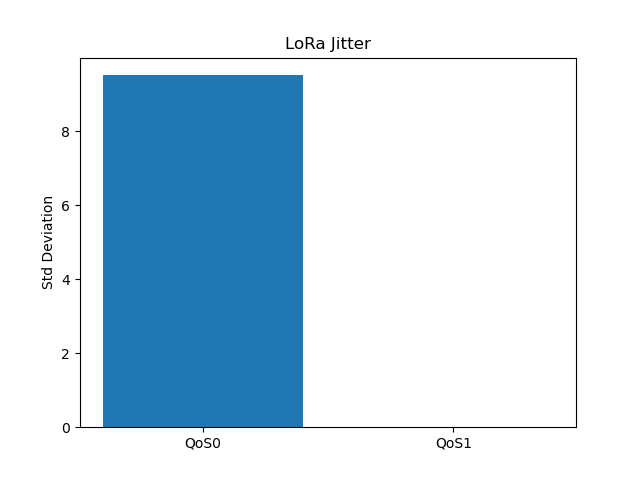
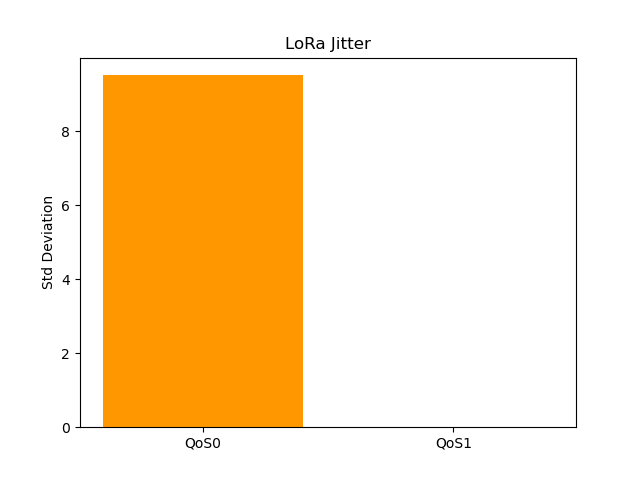
add perf comparison

Changed region(s): [[0.1562, 0.1562, 0.5, 0.9062]]

diff --git a/performance/perf_comparison.py b/performance/perf_comparison.py
@@ -1,0 +1,125 @@
+import pandas as pd
+import matplotlib.pyplot as plt
+import glob
+
+# ---------- load pico data ----------
+pico_files = sorted(glob.glob("pico_qos*.csv"))
+pico_results = {}
+
+for f in pico_files:
+    label = f.split("_")[1].upper()
+    data = pd.read_csv(f)
+    timestamps = data["timestamp"]
+    duration = timestamps.iloc[-1] - timestamps.iloc[0]
+    throughput = len(timestamps) / duration
+    intervals = timestamps.diff().dropna()
+    avg_interval = intervals.mean()
+    jitter = intervals.std()
+
+    # FIXED: count actual gaps
+    seq = data["payload"].str.split().str[-1].astype(int).reset_index(drop=True).sort_values()
+    gaps = 0
+    for i in range(1, len(seq)):
+        gap = seq.iloc[i] - seq.iloc[i-1] - 1
+        if gap > 0:
+            gaps += gap
+    expected = seq.iloc[-1] - seq.iloc[0] + 1
+    loss = max(0, gaps / expected)
+
+    pico_results[label] = {
+        "throughput": throughput,
+        "latency": avg_interval,
+        "jitter": jitter,
+        "loss": loss
+    }
+
+# ---------- load lora data ----------
+lora_files = sorted(glob.glob("lora_test*.csv"))
+lora_data = pd.read_csv(lora_files[-1])
+
+lora_qos0 = lora_data[lora_data["topic"] == "sensors/arduino/data"].sort_values("timestamp")
+lora_qos1 = lora_data[lora_data["topic"] == "sensors/data"].sort_values("timestamp")
+
+lora_results = {}
+
+for label, df in [("QOS0", lora_qos0), ("QOS1", lora_qos1)]:
+    if len(df) < 2:
+        continue
+    timestamps = df["timestamp"]
+    duration = timestamps.iloc[-1] - timestamps.iloc[0]
+    throughput = len(timestamps) / duration
+    intervals = timestamps.diff().dropna()
+    avg_interval = intervals.mean()
+    jitter = intervals.std()
+
+    # FIXED: count actual gaps
+    seq = df["payload"].str.split().str[-1].astype(int).reset_index(drop=True).sort_values()
+    gaps = 0
+    for i in range(1, len(seq)):
+        gap = seq.iloc[i] - seq.iloc[i-1] - 1
+        if gap > 0:
+            gaps += gap
+    expected = seq.iloc[-1] - seq.iloc[0] + 1
+    loss = max(0, gaps / expected)
+
+    lora_results[label] = {
+        "throughput": throughput,
+        "latency": avg_interval,
+        "jitter": jitter,
+        "loss": loss
+    }
+
+# ---------- print summary ----------
+print("\n===== WIFI vs LORA SINGLE HOP COMPARISON =====\n")
+print(f"{'Metric':<20} {'WiFi QoS0':>12} {'WiFi QoS1':>12} {'WiFi QoS2':>12} {'LoRa QoS0':>12} {'LoRa QoS1':>12}")
+print("-" * 72)
+
+metrics = [
+    ("Throughput(msg/s)", "throughput", "{:.4f}"),
+    ("Avg Interval(s)",   "latency",    "{:.4f}"),
+    ("Jitter(s)",         "jitter",     "{:.4f}"),
+    ("Packet Loss",       "loss",       "{:.4f}"),
+]
+
+for name, key, fmt in metrics:
+    wifi0 = fmt.format(pico_results.get("QOS0", {}).get(key, 0))
+    wifi1 = fmt.format(pico_results.get("QOS1", {}).get(key, 0))
+    wifi2 = fmt.format(pico_results.get("QOS2", {}).get(key, 0))
+    lora0 = fmt.format(lora_results.get("QOS0", {}).get(key, 0))
+    lora1 = fmt.format(lora_results.get("QOS1", {}).get(key, 0))
+    print(f"{name:<20} {wifi0:>12} {wifi1:>12} {wifi2:>12} {lora0:>12} {lora1:>12}")
+
+# ---------- comparison charts ----------
+fig, axes = plt.subplots(2, 2, figsize=(12, 8))
+fig.suptitle("WiFi (Pico) vs LoRa Single-Hop (Arduino) — Transport Comparison", fontsize=13)
+
+wifi_labels = list(pico_results.keys())
+lora_labels = list(lora_results.keys())
+wifi_color = "#2196F3"
+lora_color = "#FF9800"
+
+def plot_comparison(ax, title, ylabel, key):
+    x = range(len(wifi_labels))
+    lora_x = range(len(lora_labels))
+    ax.bar([i - 0.2 for i in x],
+           [pico_results[k][key] for k in wifi_labels],
+           width=0.4, label="WiFi", color=wifi_color, alpha=0.8)
+    ax.bar([i + 0.2 for i in lora_x],
+           [lora_results[k][key] for k in lora_labels],
+           width=0.4, label="LoRa", color=lora_color, alpha=0.8)
+    ax.set_title(title)
+    ax.set_ylabel(ylabel)
+    ax.set_xticks(list(x))
+    ax.set_xticklabels(wifi_labels)
+    ax.legend()
+    ax.grid(axis="y", linestyle="--", alpha=0.4)
+
+plot_comparison(axes[0][0], "Throughput (msg/s)",      "Messages/sec", "throughput")
+plot_comparison(axes[0][1], "Avg Message Interval (s)", "Seconds",      "latency")
+plot_comparison(axes[1][0], "Jitter (Std Deviation)",   "Seconds",      "jitter")
+plot_comparison(axes[1][1], "Packet Loss Ratio",        "Loss Ratio",   "loss")
+
+plt.tight_layout()
+plt.savefig("comparison_wifi_vs_lora.png", dpi=150)
+print("\nSaved → comparison_wifi_vs_lora.png")
+plt.show()

diff --git a/performance/perf_plot_lora.py b/performance/perf_plot_lora.py
@@ -6,7 +6,7 @@ import glob
 files = sorted(glob.glob("lora_test*.csv"))
 
 # ---------- load file ----------
-file = files[-1]   # take latest file
+file = files[-1]
 data = pd.read_csv(file)
 
 # ---------- split QoS ----------
@@ -16,26 +16,26 @@ qos1 = data[data["topic"] == "sensors/data"]
 results = {}
 
 def compute_metrics(df, name):
-
     if len(df) < 2:
         return None
 
     df = df.sort_values(by="timestamp")
-
     timestamps = df["timestamp"]
-
     duration = max(timestamps.iloc[-1] - timestamps.iloc[0], 1e-6)
     throughput = len(timestamps) / duration
-
     intervals = timestamps.diff().dropna()
     avg_interval = intervals.mean()
     jitter = intervals.std()
 
-    seq_numbers = df["payload"].str.split().str[-1].astype(int)
-
-    expected = seq_numbers.iloc[-1] - seq_numbers.iloc[0] + 1
-    received = len(seq_numbers)
-    loss = (expected - received) / expected
+    # FIXED: count actual gaps instead of first/last comparison
+    seq = df["payload"].str.split().str[-1].astype(int).reset_index(drop=True).sort_values()
+    gaps = 0
+    for i in range(1, len(seq)):
+        gap = seq.iloc[i] - seq.iloc[i-1] - 1
+        if gap > 0:
+            gaps += gap
+    expected = seq.iloc[-1] - seq.iloc[0] + 1
+    loss = max(0, gaps / expected)
 
     return {
         "throughput": throughput,
@@ -50,7 +50,6 @@ results["QoS1"] = compute_metrics(qos1, "QoS1")
 
 # ---------- print ----------
 print("\n===== LORA SINGLE-HOP ANALYSIS =====\n")
-
 for k, v in results.items():
     if v:
         print(f"{k}:")
@@ -61,12 +60,7 @@ for k, v in results.items():
         print()
 
 # ---------- prepare for plotting ----------
-labels = []
-throughputs = []
-latencies = []
-jitters = []
-losses = []
-
+labels, throughputs, latencies, jitters, losses = [], [], [], [], []
 for k, v in results.items():
     if v:
         labels.append(k)
@@ -77,51 +71,45 @@ for k, v in results.items():
 
 # ---------- throughput ----------
 plt.figure()
-plt.bar(labels, throughputs)
+plt.bar(labels, throughputs, color="#FF9800")
 plt.title("LoRa Throughput (Single-Hop)")
 plt.ylabel("Messages/sec")
 plt.savefig("lora_throughput.png")
 
 # ---------- latency ----------
 plt.figure()
-plt.bar(labels, latencies)
+plt.bar(labels, latencies, color="#FF9800")
 plt.title("LoRa Average Interval")
 plt.ylabel("Seconds")
 plt.savefig("lora_latency.png")
 
 # ---------- jitter ----------
 plt.figure()
-plt.bar(labels, jitters)
+plt.bar(labels, jitters, color="#FF9800")
 plt.title("LoRa Jitter")
 plt.ylabel("Std Deviation")
 plt.savefig("lora_jitter.png")
 
 # ---------- packet loss ----------
 plt.figure()
-plt.bar(labels, losses)
+plt.bar(labels, losses, color="#FF9800")
 plt.title("LoRa Packet Loss")
 plt.ylabel("Loss Ratio")
 plt.savefig("lora_packet_loss.png")
 
 # ---------- timeline ----------
 plt.figure()
-
 for label, df in [("QoS0", qos0), ("QoS1", qos1)]:
-
     if len(df) < 2:
         continue
-
     seq = df["payload"].str.split().str[-1].astype(int)
     timestamps = df["timestamp"]
     timestamps = timestamps - timestamps.iloc[0]
-
     plt.scatter(seq, timestamps, label=label)
 
 plt.title("LoRa Timeline (Seq vs Time)")
 plt.xlabel("Sequence Number")
 plt.ylabel("Time (s)")
 plt.legend()
-
 plt.savefig("lora_timeline.png")
-
 plt.show()
